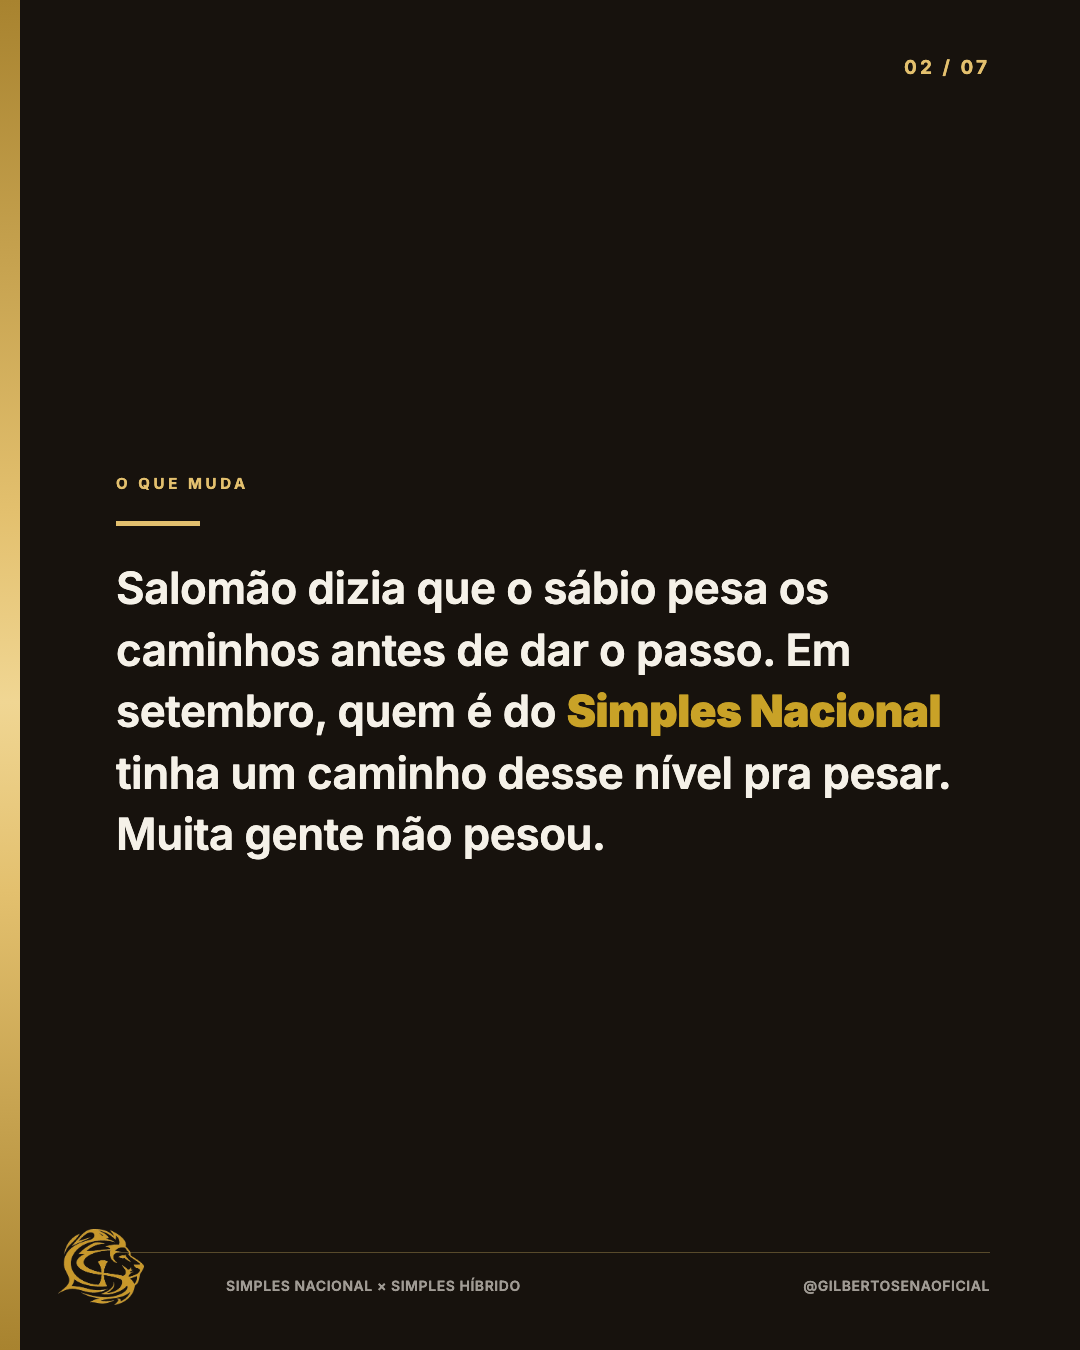
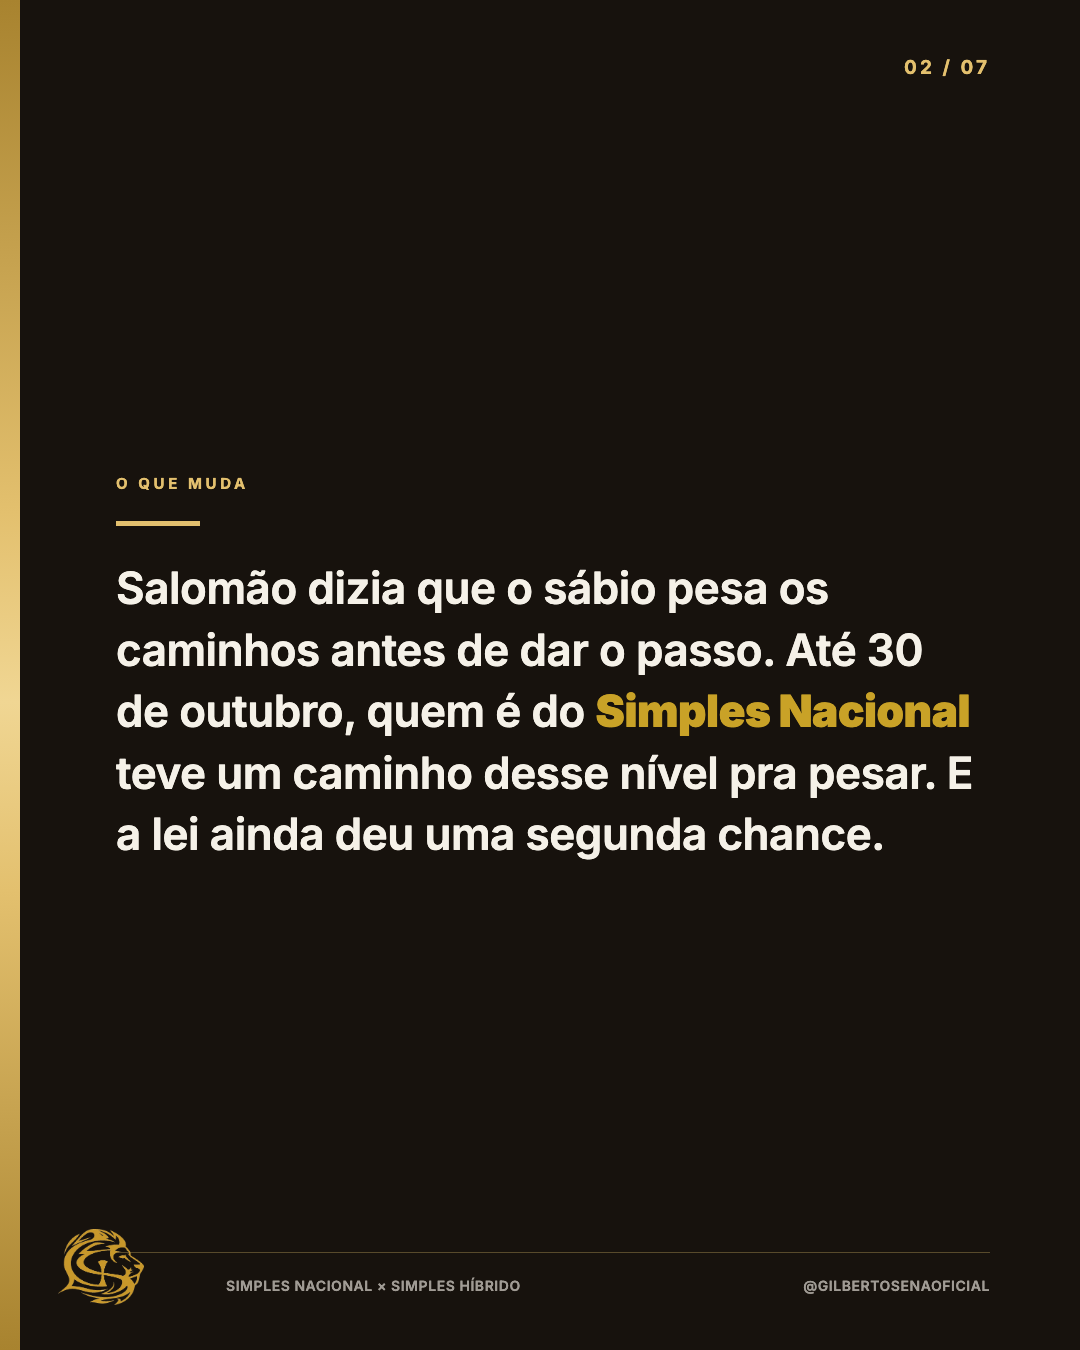
Simples hibrido reescrito para o cancelamento e agendado em 3/11 20h; fila de carrosseis ate 3/11

Changed region(s): [[0.0917, 0.4667, 0.9167, 0.6533]]

diff --git a/saidas/CARROSSEIS/carrossel-simples-hibrido-2026-08-27/carrossel.html b/saidas/CARROSSEIS/carrossel-simples-hibrido-2026-08-27/carrossel.html
@@ -272,7 +272,7 @@
   </div>
   <div class="kicker">REFORMA TRIBUTÁRIA</div>
   <div class="rule"></div>
-  <div class="capa-title">Perdeu a janela de setembro? Você ainda tem duas datas.</div>
+  <div class="capa-title">Optou pelo Simples híbrido? Ainda dá pra voltar atrás.</div>
   <div class="footer">
     <span>SIMPLES NACIONAL × SIMPLES HÍBRIDO</span>
     <span>@GILBERTOSENAOFICIAL</span>
@@ -290,7 +290,7 @@
   </div>
   <div class="kicker">O QUE MUDA</div>
   <div class="rule"></div>
-  <div class="solo-body">Salomão dizia que o sábio pesa os caminhos antes de dar o passo. Em setembro, quem é do <b>Simples Nacional</b> tinha um caminho desse nível pra pesar. Muita gente não pesou.</div>
+  <div class="solo-body">Salomão dizia que o sábio pesa os caminhos antes de dar o passo. Até 30 de outubro, quem é do <b>Simples Nacional</b> teve um caminho desse nível pra pesar. E a lei ainda deu uma segunda chance.</div>
   <div class="footer">
     <span>SIMPLES NACIONAL × SIMPLES HÍBRIDO</span>
     <span>@GILBERTOSENAOFICIAL</span>
@@ -355,10 +355,10 @@
     </div>
     <span class="counter">05 / 07</span>
   </div>
-  <div class="kicker">O QUE AINDA CORRE</div>
+  <div class="kicker">PRA VOLTAR ATRÁS</div>
   <div class="rule"></div>
-  <div class="numero-big">30/nov e março/2027</div>
-  <div class="numero-sub">Quem optou em setembro pode <b>cancelar até 30 de novembro</b>, e o cancelamento é irretratável. Quem ficou de fora pega a <b>nova janela em março de 2027</b>, valendo pro segundo semestre. E quem abriu empresa entre outubro e dezembro escolhe no próprio registro.</div>
+  <div class="numero-big">3/nov a 20/dez</div>
+  <div class="numero-sub">Quem optou pelo híbrido <b>cancela de 3 de novembro a 20 de dezembro de 2026</b>, e o cancelamento é irretratável. Quem não optou tem <b>nova janela de 1 a 31 de março de 2027</b>, valendo pro segundo semestre.</div>
   <div class="footer">
     <span>SIMPLES NACIONAL × SIMPLES HÍBRIDO</span>
     <span>@GILBERTOSENAOFICIAL</span>

diff --git a/_memoria/onde-paramos.md b/_memoria/onde-paramos.md
@@ -28,10 +28,9 @@ estúdio de vídeo (`~/Ferramentas/editor-video-gilberto/remotion/src/`).
   de 3/11 a 20/12, CGSN 194/2026, conferido no CFC em 19/out) e **agendado para
   19/10 às 21h** no Instagram (Zernio `6ad6947c756c974ea893f060`). É esse que ele
   vai fixar na grade.
-- ⏳ **Só ele apaga, no app:** o carrossel antigo (`instagram.com/p/DekxfVgCoMg/`)
-  e o reel no TikTok (`tiktok.com/@gilbertosenaoficial/video/7696670028137041173`).
-  Conferir se apagou.
-- **O carrossel `simples-hibrido` tem o mesmo erro** e segue segurado: reescrever antes de entrar na fila.
+- ✅ **Ele apagou no app** (19/out) o carrossel antigo e o reel do TikTok.
+- ✅ **O `simples-hibrido` foi reescrito** para quem chega depois de 30/10 ("Optou pelo híbrido? Ainda dá pra voltar
+  atrás") e **agendado para 3/11 às 20h**, o dia em que abre o cancelamento. A janela de março/2027 está confirmada pela Receita.
 
 **Série "A Base da Gestão" pro YouTube (18/out): agendada, 1 aula por dia às 20h de 19 a 26/10, na playlist própria.** Conferir no dia 19 se a capa entrou (exige canal verificado). 8 aulas horizontais (22 min no total), feitas do
 `~/Downloads/mini curso/` (o módulo de introdução do curso pago). Vídeos, capas, legendas `.srt`, títulos e descrições em
@@ -40,7 +39,7 @@ estúdio de vídeo (`~/Ferramentas/editor-video-gilberto/remotion/src/`).
 **Vídeo na casa do Janguiê (Muro Alto), 18/out:** imagem tratada em `~/Downloads/... - tratado.mp4`. O som do celular
 não tem conserto aqui: nem o transcritor mais forte entende a fala. Pedir o arquivo do cinegrafista que aparece filmando.
 
-**Duas frentes abertas.** (1) Continuar enfileirando os carrosséis, **1 por dia às 20h a partir de 3/11**
+**Duas frentes abertas.** (1) Continuar enfileirando os carrosséis, **1 por dia às 20h a partir de 4/11**
 (grade de 4 posts por dia, decidida em 18/out). (2) O projeto Reestruturando com Êxito, que ele vai
 alimentando aos poucos — ver a seção logo abaixo.
 
@@ -49,7 +48,7 @@ Em `juridico/exito/` estão o estatuto e duas cartas prontas pra ele assinar, **
 (art. 23, já pedindo a suspensão da taxa, que o estatuto não prevê) e renúncia ao cargo + desligamento (art. 21; sem multa,
 só exige estar em dia com a taxa). ⚠ Se ele sair, o Reestruturando com Êxito (proposta a uma diretoria do Instituto) cai junto.
 
-**Carrosséis: fila fechada até 2/11, 1 por dia às 20h.** Próximo: **3/11**. A série dos 5 Gs está toda agendada:
+**Carrosséis: fila fechada até 3/11, 1 por dia às 20h.** Próximo: **4/11**. A série dos 5 Gs está toda agendada:
 1 (22/10), 2 (25/10), 3 Pessoas (26/10, criado em 18/out do livro), **4 Tributária (1/11, prazos refeitos em 18/out)**
 e 5 Fornecedores (2/11). Segurados: o Simples Híbrido e o Representante Comercial (prazo de setembro);
 o Forjado (anuncia imersão: confirmar); o Rede de Mastermind (critica grupo pago; com ele diretor do Instituto Êxito,
@@ -160,9 +159,9 @@ Public Sans. Sem azul e dourado.
 
 ## 0. ★ A fila de conteúdo — o trabalho em curso
 
-### ⏳ Os carrosséis: 1 por dia às 20h, fila fechada até 2/11
+### ⏳ Os carrosséis: 1 por dia às 20h, fila fechada até 3/11
 
-**Próximo a enfileirar: 3/11.** A ordem, os segurados e o ponto de retomada estão em
+**Próximo a enfileirar: 4/11.** A ordem, os segurados e o ponto de retomada estão em
 `saidas/CARROSSEIS/_PLANO-DA-FILA.md` (a grade de 15h e 20h acabou em 18/out).
 
 **O caminho, por carrossel:**
@@ -269,7 +268,7 @@ pra movimentar o canal. O TikTok ficou como estava.
 | **5h** | Provérbios | ✅ até 31/10; novembro precisa de legendas 1 a 15 e foto |
 | **9h** | frase do dia (**todo dia**, desde 18/out) | ✅ até 7/11 e em 30/11; faltam 8 a 29/11 |
 | **12h** | um reel novo (lotes de 17/out) | ✅ até 3/12 |
-| **20h** | carrossel | ✅ até 2/11; **de 3/11 em diante, 1 por dia** |
+| **20h** | carrossel | ✅ até 3/11; **de 4/11 em diante, 1 por dia** |
 
 **YouTube: 5 por dia (7h, 10h, 13h, 16h, 19h), coberto só até 30/10 às 10h.** Os 8 reels antigos que eram só do
 Instagram estão como rascunho na Zernio. Detalhe e IDs em `_memoria/cronograma-de-postagens.md`.

diff --git a/saidas/CARROSSEIS/_PLANO-DA-FILA.md b/saidas/CARROSSEIS/_PLANO-DA-FILA.md
@@ -66,6 +66,7 @@ horário das 15h.** A tabela acima é histórico da grade antiga.
 | 31/10 | `reforma-ebooks` |
 | 01/11 | `5gs-gestao-tributaria` (4 de 5, **prazos refeitos em 18/out**: IBS/CBS na nota desde 3/8, cancelamento do híbrido de 3/11 a 20/12, nova janela em março/2027) |
 | 02/11 | `5gs-fornecedores-clientes` (5 de 5, fecha a série; **refeito em 18/out no padrão escuro dos outros quatro**) |
+| 03/11 | `simples-hibrido` (**reescrito em 19/out** para o dia em que abre o cancelamento: "Optou pelo híbrido? Ainda dá pra voltar atrás", 3/11 a 20/12 e março/2027; Zernio `6ad696eecdc655262c318ea5`) |
 
 🔴 **Defeito de contraste corrigido em 18/out (é o erro 8).** Nas peças do modelo "5 Gs/pilares" (`bg-light`, `bg-gold`),
 a pele deixa o fundo escuro mas o texto continuava escuro: o corpo das lâminas 2, 4, 6 e 7 quase não aparecia. Pegou
@@ -74,7 +75,7 @@ antes de sair). A correção (bloco CSS "18/out: contraste" no fim do `carrossel
 pastas que usam esse modelo e as lâminas foram regeradas; nos posts agendados, as imagens foram trocadas.
 **Antes de subir qualquer carrossel, montar a folha de contato das lâminas e olhar.**
 
-**Próximo a enfileirar: 3/11 às 20h.** Os que passaram na varredura de prazo (sem "setembro", "30/11", autônomo):
+**Próximo a enfileirar: 4/11 às 20h.** Os que passaram na varredura de prazo (sem "setembro", "30/11", autônomo):
 `biomedicina-reforma`, `comercio-reforma`, `ecommerce-alerta`, `educacao-reforma`, `entregadores-app-reforma`,
 `medicos-reforma-08-27` (tema repetido com o de 30/10: espaçar), `odontologia-reforma`, `reforma-ecommerce` e
 `industria-reforma` (os dois últimos: ler contra a notícia do IS de 8/out), `saude-geral-reforma`,
@@ -84,7 +85,6 @@ pastas que usam esse modelo e as lâminas foram regeradas; nos posts agendados, 
 
 | Carrossel | Por quê |
 |---|---|
-| `simples-hibrido` | gancho "perdeu a janela de setembro"; o prazo agora é 30/10 |
 | `reforma-representante-comercial` | lâmina 8: "janela 1 a 30/09" e "cancelamento até 30/11" |
 | `forjado-imersao` | anuncia uma imersão ("comenta FORJADO que eu te aviso"); confirmar com ele se existe |
 | `rede-de-mastermind` | critica grupo pago de acesso; com ele diretor do Instituto Êxito e a proposta do Reestruturando em curso, pode soar como recado. **Decisão dele** |

diff --git a/saidas/CARROSSEIS/carrossel-simples-hibrido-2026-08-27/legenda.md b/saidas/CARROSSEIS/carrossel-simples-hibrido-2026-08-27/legenda.md
@@ -1,16 +1,14 @@
-Perdeu a janela de setembro? Calma, você ainda tem duas datas.
+Optou pelo Simples híbrido? Ainda dá pra voltar atrás.
 
-De 1 a 30 de setembro, quem é do Simples Nacional escolheu COMO vai recolher IBS e CBS a partir de 2027: dentro do DAS, como sempre foi, ou por fora dele, apurando separado sem sair do Simples.
+Até 30 de outubro de 2026, quem é do Simples Nacional escolheu COMO vai recolher IBS e CBS no primeiro semestre de 2027: dentro do DAS, como sempre foi, ou por fora dele, apurando separado sem sair do Simples.
 
-Quem não escolheu nada ficou no modelo unificado por omissão. E isso vale o ano inteiro de 2027.
+Quem não escolheu nada ficou no modelo unificado.
 
-Mas ainda correm duas coisas.
+Agora correm duas datas.
 
-Até 30 de novembro você cancela a opção, se fez e se arrependeu. O cancelamento é irretratável, então é uma via só.
+De 3 de novembro a 20 de dezembro de 2026 você cancela a opção, se fez e se arrependeu. O cancelamento é irretratável, então é uma via só.
 
-Em março de 2027 abre nova janela, pra ajustar o segundo semestre. Quem perdeu setembro entra por aí.
-
-E tem uma terceira, que quase ninguém comenta: quem abrir empresa entre outubro e dezembro de 2026 escolhe no próprio registro, sem esperar janela nenhuma.
+De 1 a 31 de março de 2027 abre nova janela, valendo pro segundo semestre. Quem não optou entra por aí.
 
 Por que isso importa tanto? Porque acaba o crédito presumido de 9,25%. Quem compra de você passa a aproveitar só o que você efetivamente pagou no DAS. Se o seu cliente é empresa, você pode virar o fornecedor caro da cadeia sem ter mexido no seu preço.
 

diff --git a/_memoria/cronograma-de-postagens.md b/_memoria/cronograma-de-postagens.md
@@ -11,7 +11,7 @@ e no YouTube *"5 reels por dia, pois quero movimentar o canal"*, com *"os reels 
 
 | Rede | Grade | Até quando está coberto |
 |---|---|---|
-| **Instagram** | **5h** Provérbios · **9h** frase do dia (**todo dia**, desde 18/out) · **12h** um reel novo · **20h** carrossel | reels até **3/12**; Provérbios até 31/10; frase até **7/11** (e 30/11); carrossel até **2/11** |
+| **Instagram** | **5h** Provérbios · **9h** frase do dia (**todo dia**, desde 18/out) · **12h** um reel novo · **20h** carrossel | reels até **3/12**; Provérbios até 31/10; frase até **7/11** (e 30/11); carrossel até **3/11** |
 | **YouTube** | **5 reels por dia: 7h, 10h, 13h, 16h, 19h** (antigos e novos) | até **30/10 às 10h**; depois, nada |
 | **TikTok** | sem mudança: os horários que já tinham (6h, 12h e 18h) | até 9/11 |
 
@@ -30,7 +30,7 @@ e no YouTube *"5 reels por dia, pois quero movimentar o canal"*, com *"os reels 
 
 | O quê | A partir de | Quanto |
 |---|---|---|
-| Carrossel das 20h | **3/11** | 1 por dia. Ver os segurados em `saidas/CARROSSEIS/_PLANO-DA-FILA.md` |
+| Carrossel das 20h | **4/11** | 1 por dia. Ver os segurados em `saidas/CARROSSEIS/_PLANO-DA-FILA.md` |
 | Provérbios das 5h | **1/11** | legendas dos dias 1 a 15 e a foto de novembro |
 | Frase do dia das 9h | **8/11** (e de 8 a 29/11) | 22 frases novas (o 30/11 já está agendado) |
 | YouTube | **30/10 às 13h** | 5 reels por dia: precisa de vídeo novo (cortes das gravações do carro) |

diff --git a/saidas/CARROSSEIS/carrossel-simples-hibrido-2026-08-27/texto.md b/saidas/CARROSSEIS/carrossel-simples-hibrido-2026-08-27/texto.md
@@ -1,4 +1,9 @@
-# Carrossel — Simples Nacional × Simples Híbrido (a decisão de setembro)
+# Carrossel — Simples Nacional × Simples Híbrido (o cancelamento)
+
+> **Reescrito em 19/out/2026** para sair a partir de 3/11, quando a opção (até 30/10) já fechou e abre o
+> cancelamento (3/11 a 20/12). Prazos da Resolução CGSN 194/2026, conferidos no CFC e no fichamento. Saiu a frase
+> das empresas novas, que o fichamento manda não afirmar. **O que vale é o `carrossel.html` e a `legenda.md`;
+> o texto abaixo é o rascunho original de agosto.**
 
 Fonte técnica: `conhecimento/reforma-tributaria.md`, seção 7 (Simples Nacional — a decisão de setembro).
 
